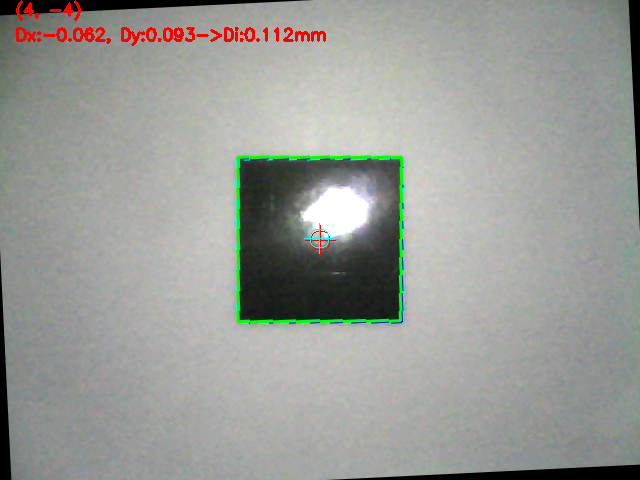
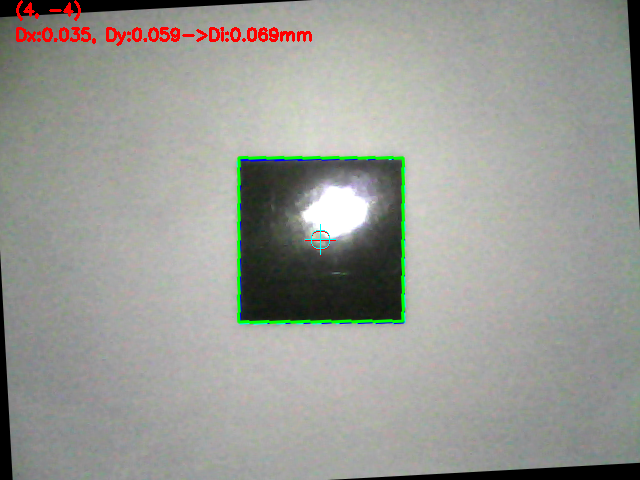
small update
correct caluclation of x,y offset rms to make it relative to the center value

diff --git a/GroundControl-master/OpticalCalibration/opticalCalibrationCanvas.py b/GroundControl-master/OpticalCalibration/opticalCalibrationCanvas.py
@@ -160,8 +160,8 @@ class OpticalCalibrationCanvas(GridLayout):
             for x in range(self.HomingRange*-1,self.HomingRange+1):
                 if (abs(y)<=7):
                     self.ids.OpticalCalibrationDistance.text += "[{:.2f},{:.2f}] ".format(self.calErrorsX[x+15][7-y], self.calErrorsY[x+15][7-y])
-                    calX += self.calErrorsX[x+15][7-y]*self.calErrorsX[x+15][7-y]
-                    calY += self.calErrorsY[x+15][7-y]*self.calErrorsY[x+15][7-y]
+                    calX += (self.calErrorsX[x+15][7-y]-self.calErrorsX[15][7]) ** 2.0
+                    calY += (self.calErrorsY[x+15][7-y]-self.calErrorsY[15][7]) ** 2.0
                     count += 1
             self.ids.OpticalCalibrationDistance.text +="\n"
         calX = math.sqrt(calX/count)
